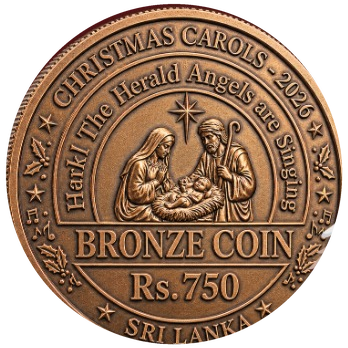
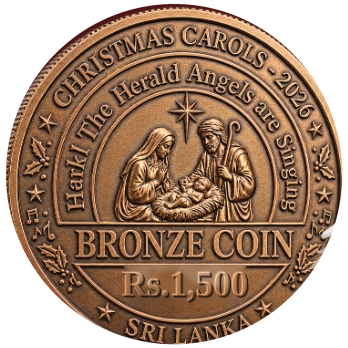
prices updated

Changed region(s): [[0.3448, 0.7471, 0.7184, 0.8908]]

diff --git a/index.html b/index.html
@@ -105,7 +105,7 @@
           <article class="tier-card reveal" data-tier="gold">
             <div class="coin-wrap"><img class="coin" src="assets/img/coin-gold.png" alt="Gold coin" /></div>
             <h3>Gold</h3>
-            <p class="price">Rs. 1,500</p>
+            <p class="price">Rs. 3,500</p>
             <ul>
               <li>Rows A–D, front of the floor</li>
               <li>Closest to the stage &amp; choir</li>
@@ -117,7 +117,7 @@
           <article class="tier-card reveal" data-delay="1" data-tier="silver">
             <div class="coin-wrap"><img class="coin" src="assets/img/coin-silver.png" alt="Silver coin" /></div>
             <h3>Silver</h3>
-            <p class="price">Rs. 1,000</p>
+            <p class="price">Rs. 2,500</p>
             <ul>
               <li>Rows E–J, centre floor</li>
               <li>Best balance of view &amp; sound</li>
@@ -129,7 +129,7 @@
           <article class="tier-card reveal" data-delay="2" data-tier="bronze">
             <div class="coin-wrap"><img class="coin" src="assets/img/coin-bronze.png" alt="Bronze coin" /></div>
             <h3>Bronze</h3>
-            <p class="price">Rs. 750</p>
+            <p class="price">Rs. 1,500</p>
             <ul>
               <li>Gallery rows K–N, upper level</li>
               <li>Elevated, full-stage view</li>
@@ -218,9 +218,9 @@
           <div class="map-toolbar">
             <div class="legend" id="legend">
               <button class="lg active" data-filter="all"><svg viewBox="0 0 24 24"><path d="M4 4h6M4 4v6M20 20h-6M20 20v-6M20 4h-6M20 4v6M4 20h6M4 20v-6"/></svg>Whole hall</button>
-              <button class="lg" data-filter="gold"><i class="sw gold"></i>Gold <b>Rs.1,500</b></button>
-              <button class="lg" data-filter="silver"><i class="sw silver"></i>Silver <b>Rs.1,000</b></button>
-              <button class="lg" data-filter="bronze"><i class="sw bronze"></i>Gallery <b>Rs.750</b></button>
+              <button class="lg" data-filter="gold"><i class="sw gold"></i>Gold <b>Rs.3,500</b></button>
+              <button class="lg" data-filter="silver"><i class="sw silver"></i>Silver <b>Rs.2,500</b></button>
+              <button class="lg" data-filter="bronze"><i class="sw bronze"></i>Gallery <b>Rs.1,500</b></button>
               <span class="lg static"><i class="sw sel"></i>Your pick</span>
               <span class="lg static"><i class="sw taken"></i>Booked</span>
             </div>

diff --git a/js/app.js b/js/app.js
@@ -13,9 +13,9 @@
     day: 'Friday', dayNum: 18, month: 'December', time: '6:30 PM'
   };
   const TIERS = {
-    gold:   { label: 'Gold',   price: 1500, coin: 'assets/img/coin-gold.png' },
-    silver: { label: 'Silver', price: 1000, coin: 'assets/img/coin-silver.png' },
-    bronze: { label: 'Bronze', price: 750,  coin: 'assets/img/coin-bronze.png' }
+    gold:   { label: 'Gold',   price: 3500, coin: 'assets/img/coin-gold.png' },
+    silver: { label: 'Silver', price: 2500, coin: 'assets/img/coin-silver.png' },
+    bronze: { label: 'Bronze', price: 1500, coin: 'assets/img/coin-bronze.png' }
   };
   const MAX_SEATS = 10;
   const HOLD_SECONDS = 10 * 60;

diff --git a/js/db.js b/js/db.js
@@ -19,7 +19,7 @@
      createdAt: ISO string,
      customer: { first, last, email, phone, role, student },
      tickets: [{ ticketId:'WV-7K3QX9-C4', seat:'C4', row:'C', num:4,
-                 tier:'gold', price:1500, checkedInAt:null }]
+                 tier:'gold', price:3500, checkedInAt:null }]
    }
    ========================================================= */
 window.DB = (function () {
